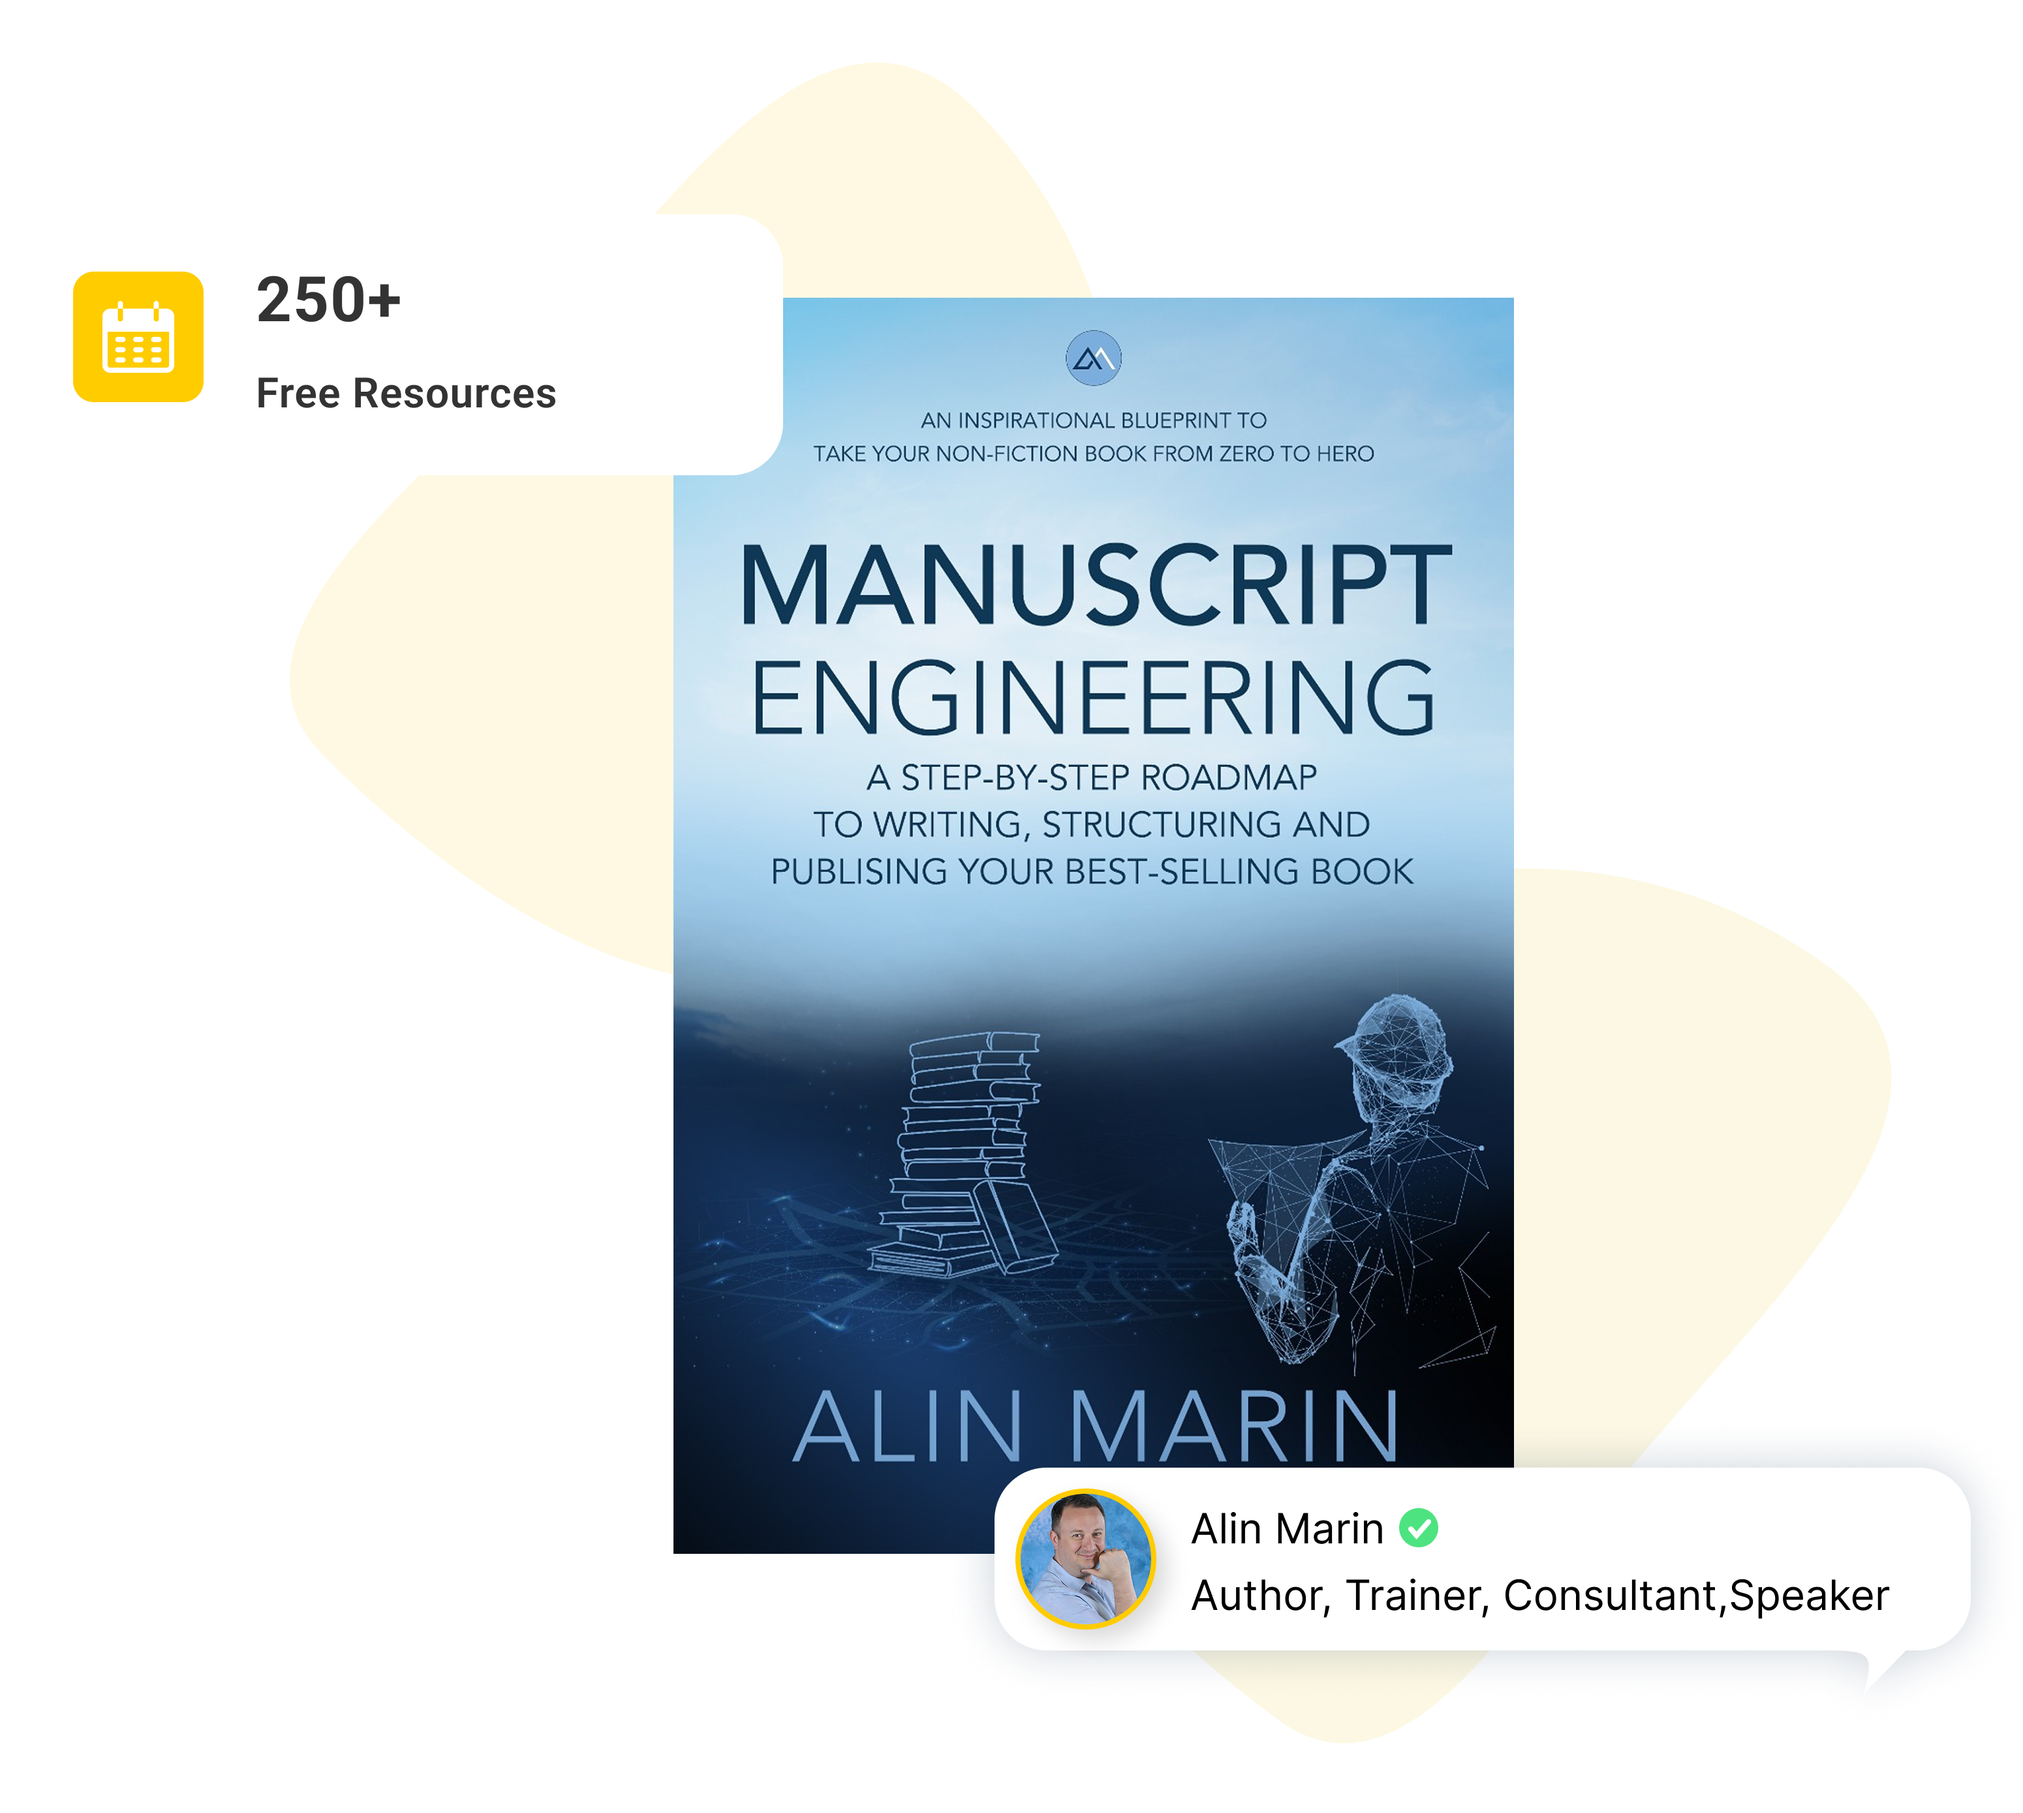
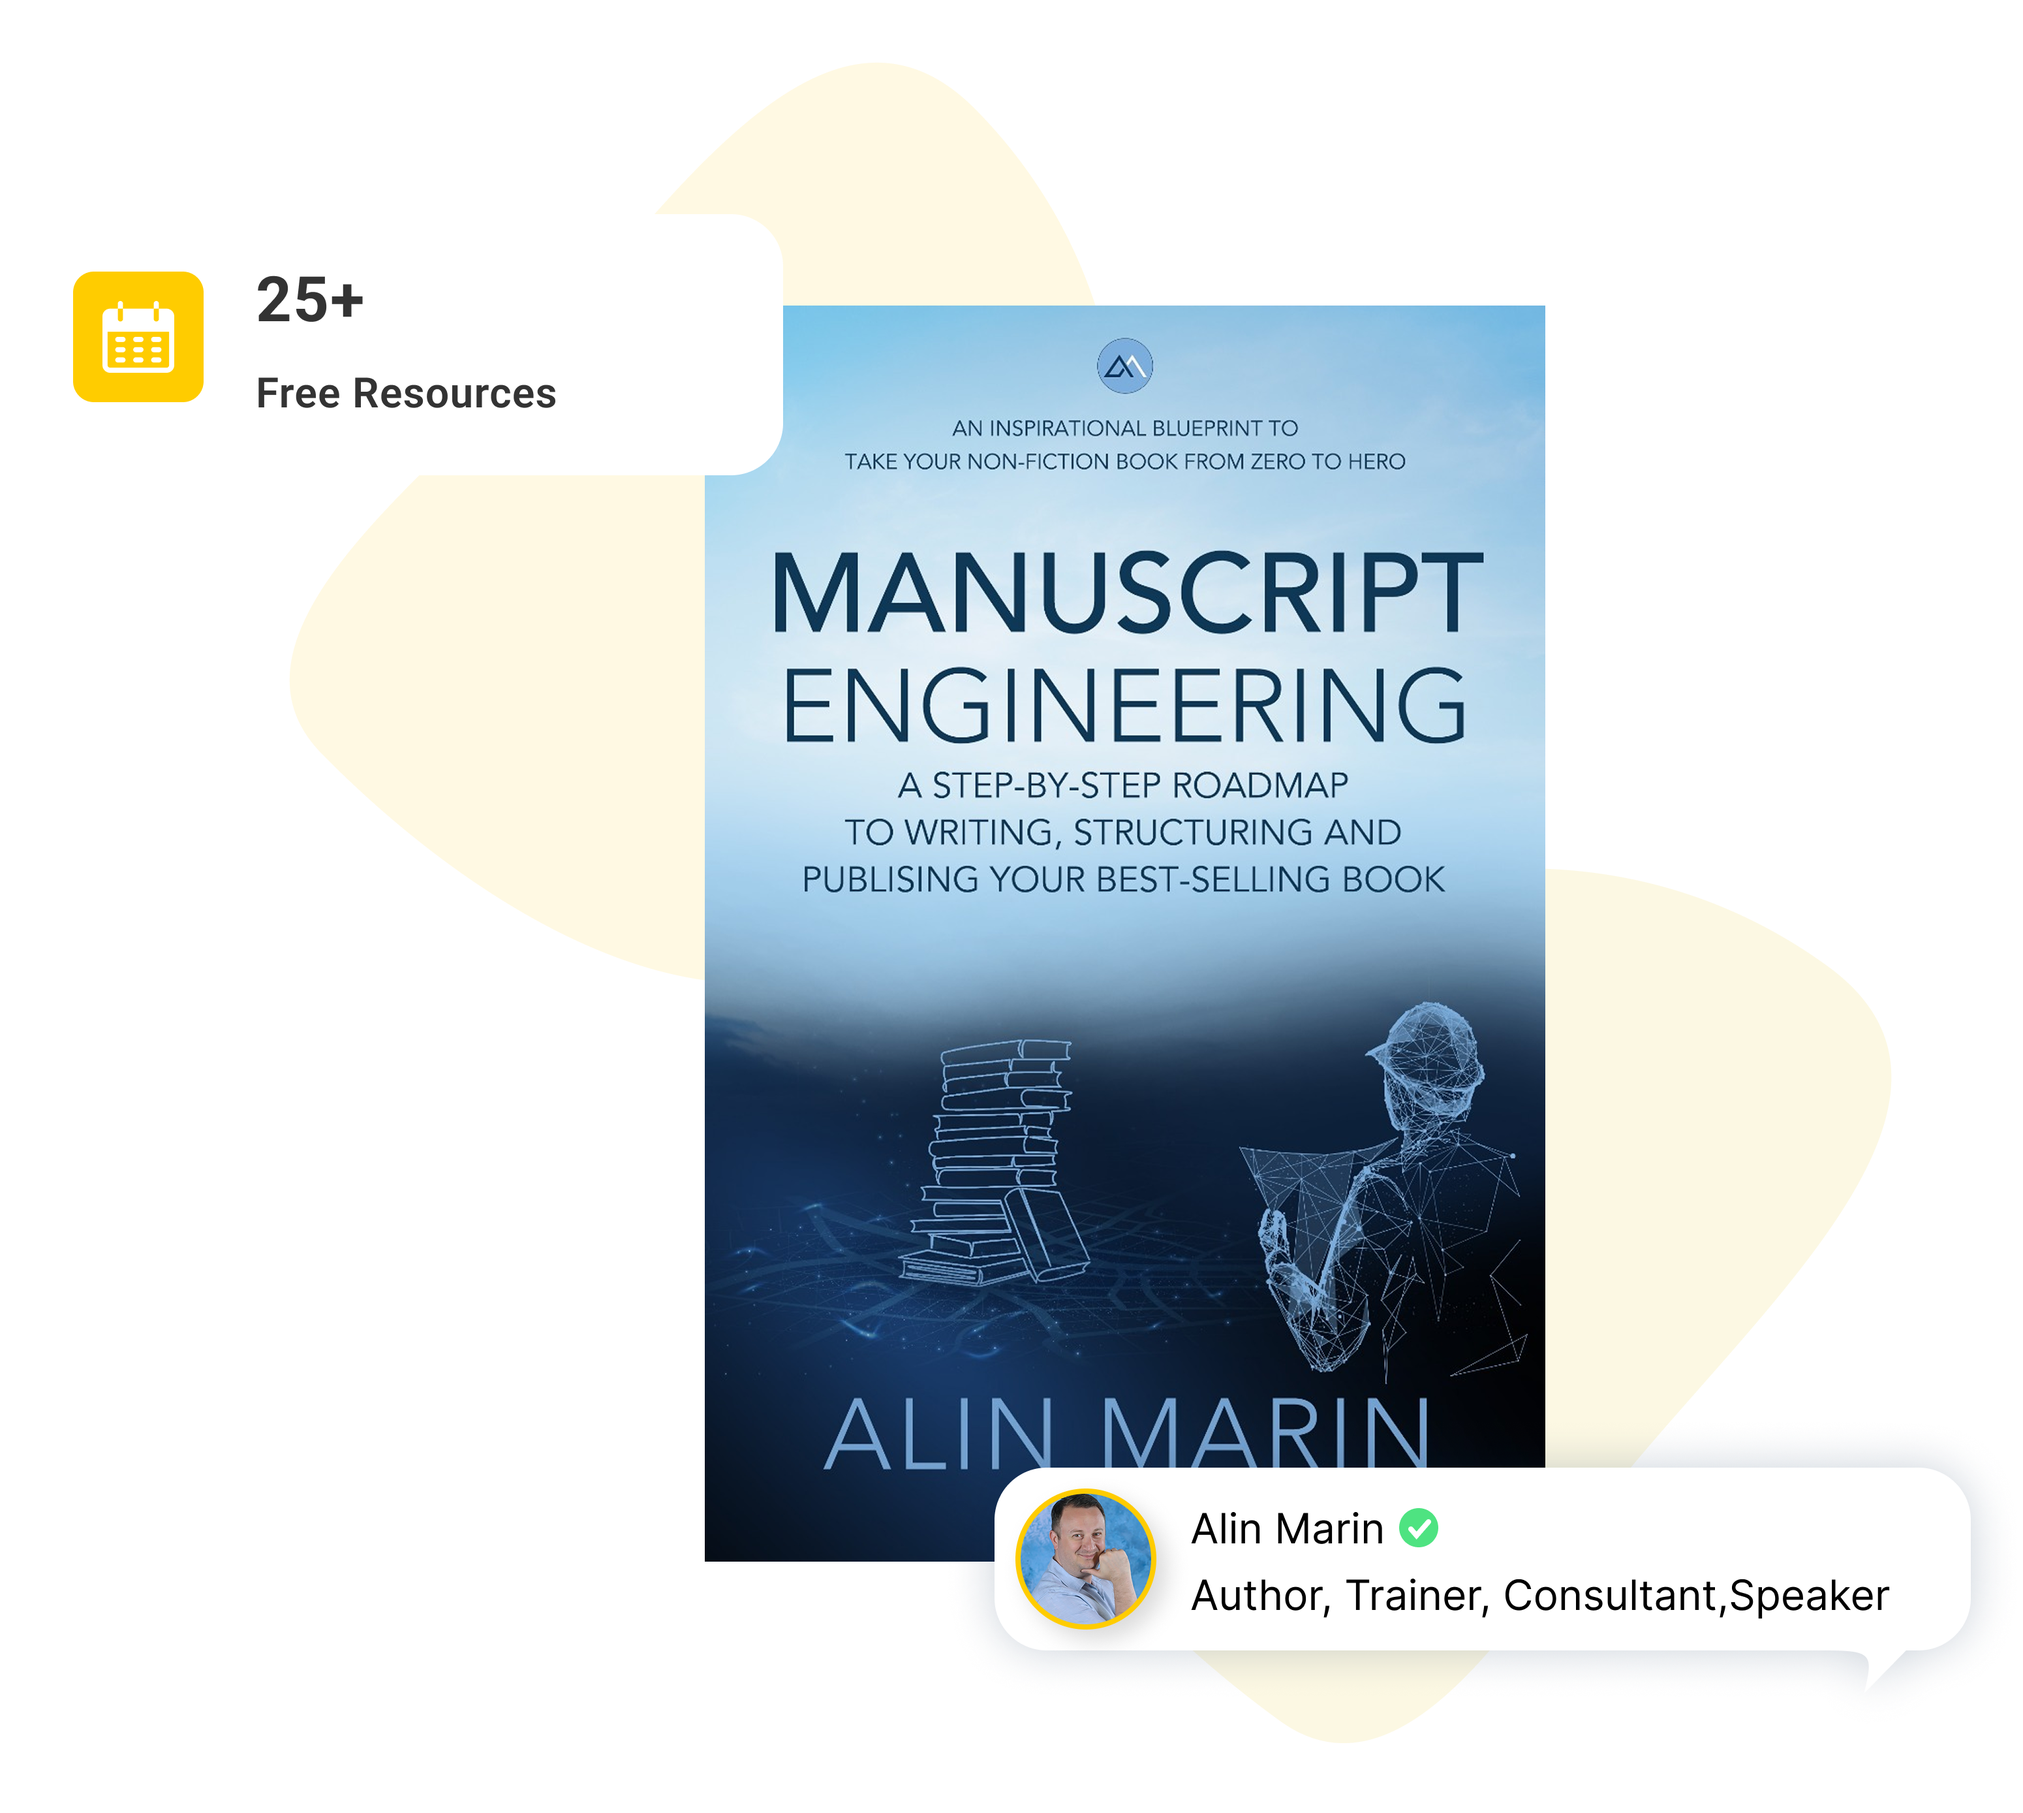
fixed images issue and added new client requirments

Changed region(s): [[0.3097, 0.1548, 0.7742, 0.8671], [0.1548, 0.1548, 0.2168, 0.1858]]

diff --git a/templates/user/home.html b/templates/user/home.html
@@ -123,10 +123,8 @@
                     <p class="article-description"><b>What you’ll learn:</b> define your book’s purpose and audience; build a strategic chapter outline; write efficiently without overwhelm; self-edit for clarity and flow; prepare for publishing (self or traditional); and plan a successful book launch.</p>
                 </div>
                 <div class="action-btns w-100">
-                    <a href="https://www.amazon.com/Construction-Project-Management-Success-Professionals/dp/1636183670/ref=tmm_hrd_swatch_0" target="_blank">Get Your Hard Copy </a>
-                    <a href="https://www.amazon.com/dp/1636183719/ref=tmm_pap_swatch_0" target="_blank">Amazon Soft Copy</a>
-                    <a href="https://www.amazon.com/dp/B0F1R1FGNK/ref=tmm_kin_swatch_0" target="_blank">Get your E-Book</a>
-                    <a href="https://www.amazon.com/dp/1636183719/ref=tmm_pap_swatch_0" target="_blank">Download your audiobook</a>
+                    <a href="https://www.amazon.com/Construction-Project-Management-Success-Professionals/dp/1636183670/ref=tmm_hrd_swatch_0" target="_blank">Buy on Amazon</a>
+                    <a href="https://www.amazon.com/Construction-Project-Management-Success-Professionals/dp/1636183670/ref=tmm_hrd_swatch_0" target="_blank">Buy PDF</a>
                 </div>
             </div>
         </div>

diff --git a/static/user/css/home.css b/static/user/css/home.css
@@ -215,7 +215,7 @@ body {
 
 .article .action-btns a {
     width: 100%;
-    max-width: 210px;
+    max-width: 250px;
     height: 45px;
     border-radius: 6px;
     background-color: var(--primary-color);
@@ -268,9 +268,7 @@ body {
     color: var(--primary-text-color);
 }
 .about-book > div > img{
-    height: 450px;
     border-radius: 20px;
-    object-fit: cover;
 }
 
 .about-me-img-container img {
